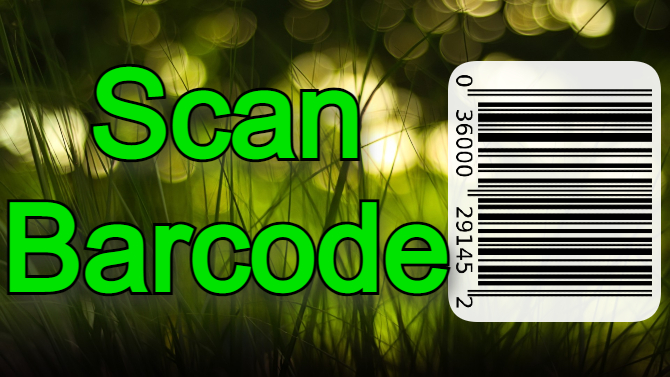
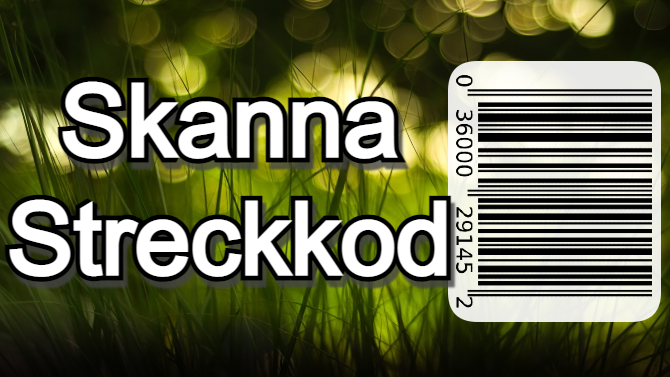
Ny bild
Nya länkar + ny bild

Changed region(s): [[0.0, 0.496, 0.6866, 0.817], [0.0597, 0.1459, 0.6269, 0.4668]]

diff --git a/style.css b/style.css
@@ -2,8 +2,6 @@
 	Gradients
 		http://www.brandgradients.com/green-gradient/
 		https://cssgradient.io/
-	Images
-	https://duckduckgo.com/?q=tulip+field+wallpaper&t=opera&iar=images&iax=images&ia=images&iai=https%3A%2F%2Fimages5.alphacoders.com%2F696%2F696134.jpg
 */
 
 
@@ -75,13 +73,14 @@ html {
 }
 
 body {
-	background-color: #8fa854;
+	/*https://duckduckgo.com/?q=nature+wallpaper&t=opera&iax=images&ia=images&iai=http%3A%2F%2Fwallup.net%2Fwp-content%2Fuploads%2F2016%2F04%2F06%2F343170-landscape-nature.jpg*/
+	background-image: url("assets/Background.jpg");
+	background-color: #7154a8;
 	overflow-x: hidden;
 	padding: 0;
 	margin: 0;
 	height: 100%;
 	overflow-x: hidden;
-	background-image: url("assets/Background.jpg");
 	min-height: 500px;
 	background-attachment: fixed;
 	background-position:top;
@@ -269,6 +268,7 @@ section {
 }
 
 #parallax1 {
+	/*https://duckduckgo.com/?q=tulip+field+wallpaper&t=opera&iar=images&iax=images&ia=images&iai=https%3A%2F%2Fimages5.alphacoders.com%2F696%2F696134.jpg*/
 	background-image: url("assets/Tulip-field.jpg");
 	min-height: 500px;
 	background-attachment: fixed;

diff --git a/index.html b/index.html
@@ -61,6 +61,8 @@
 			<h2>Din Statistik</h2>
 			<p>Lorem ipsum dolor sit amet consectetur, adipisicing elit. Voluptas saepe mollitia, perspiciatis quod officiis doloremque pariatur laborum, repellendus ipsa fuga sint alias numquam non. Odio aperiam vel impedit quis. Repellendus quam libero dolorem. Tenetur sapiente culpa distinctio qui ex odio voluptatum animi. Quam quis, quae veritatis quidem laborum consectetur corrupti? Similique eius odio quibusdam necessitatibus, recusandae fugiat ducimus repudiandae enim ut distinctio iure hic iste veritatis nihil reiciendis excepturi dolorum impedit dignissimos! Eveniet veritatis culpa fugiat autem aliquid eaque quisquam, velit voluptatum sequi harum ipsam nesciunt facere dolorum dolorem impedit quis unde asperiores qui consectetur eligendi earum fuga sint accusamus?</p>
 			<h2>Recept</h2>
+			<!--https://css-tricks.com/snippets/css/a-guide-to-flexbox/#aa-background-->
+			<!--https://www.ica.se/sok/#:search=kött-->
 			<div id="section-item-container">
 				<div class="section-item">
 					<a href="#">
